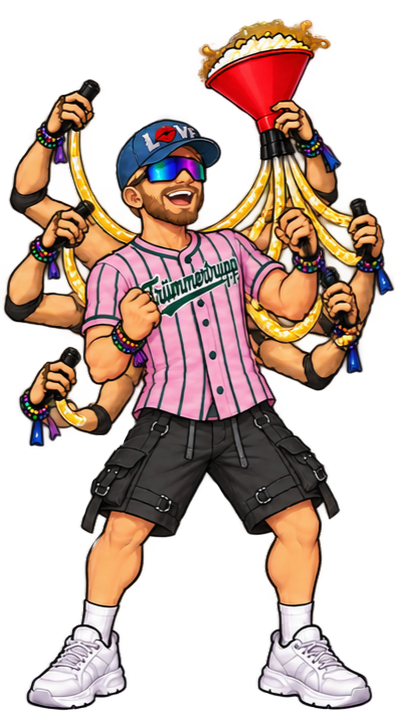
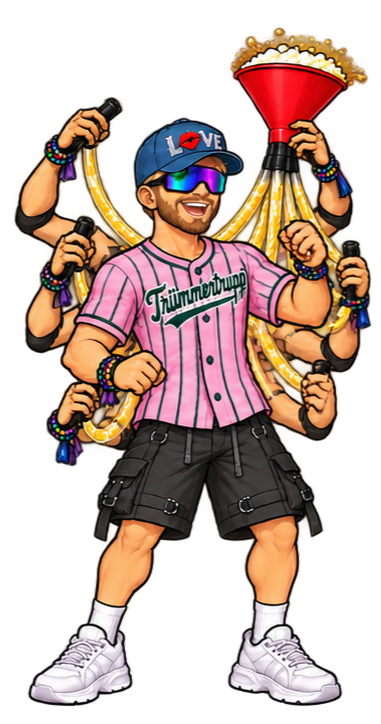
Animation Zecke/Ghost/Chef

diff --git a/src/config/characterSkins.js b/src/config/characterSkins.js
@@ -222,6 +222,31 @@ new URL(
 '../assets/characters/Ghost/skins/jersey/freude/ghost_jersey_freude4.png',
 import.meta.url,
 ).href;
+const ghostJerseySuccess05 =
+new URL(
+'../assets/characters/Ghost/skins/jersey/freude/ghost_jersey_freude5.png',
+import.meta.url,
+).href;
+const ghostJerseySuccess06 =
+new URL(
+'../assets/characters/Ghost/skins/jersey/freude/ghost_jersey_freude6.png',
+import.meta.url,
+).href;
+const ghostJerseySuccess07 =
+new URL(
+'../assets/characters/Ghost/skins/jersey/freude/ghost_jersey_freude7.png',
+import.meta.url,
+).href;
+const ghostJerseySuccess08 =
+new URL(
+'../assets/characters/Ghost/skins/jersey/freude/ghost_jersey_freude8.png',
+import.meta.url,
+).href;
+const ghostJerseySuccess09 =
+new URL(
+'../assets/characters/Ghost/skins/jersey/freude/ghost_jersey_freude9.png',
+import.meta.url,
+).href;
 
 
 const chefJerseyPortrait =
@@ -283,6 +308,11 @@ import.meta.url,
 const chefJerseySuccess05 =
 new URL(
 '../assets/characters/BoozeChef/skins/jersey/freude/chef_jersey_freude5.png',
+import.meta.url,
+).href;
+const chefJerseySuccess06 =
+new URL(
+'../assets/characters/BoozeChef/skins/jersey/freude/chef_jersey_freude6.png',
 import.meta.url,
 ).href;
 
@@ -482,6 +512,11 @@ import.meta.url,
 const zeckeJerseyFreude04 =
 new URL(
 '../assets/characters/Zecke/skins/jersey/freude/zecke_jersey_freude4.png',
+import.meta.url,
+).href;
+const zeckeJerseyFreude05 =
+new URL(
+'../assets/characters/Zecke/skins/jersey/freude/zecke_jersey_freude5.png',
 import.meta.url,
 ).href;
 const zeckeJerseyFreude06 =
@@ -742,14 +777,20 @@ export const CHARACTER_SKINS =
                   Object.freeze([
                     ghostJerseySuccess01,
                     ghostJerseySuccess02,
+                    ghostJerseySuccess02,
+                    ghostJerseySuccess02,
+                    ghostJerseySuccess02,
                     ghostJerseySuccess03,
                     ghostJerseySuccess04,
-                    ghostJerseySuccess04,
-                    ghostJerseyIdle01
+                    ghostJerseySuccess05,
+                    ghostJerseySuccess06,
+                    ghostJerseySuccess07,
+                    ghostJerseySuccess08,
+                    ghostJerseySuccess09,              
                   ]),
 
                 frameDurationMs:
-                  150,
+                  180,
             }
           }),
       }),
@@ -809,11 +850,15 @@ export const CHARACTER_SKINS =
                           chefJerseySuccess03,
                           chefJerseySuccess04,
                           chefJerseySuccess05,
-                          chefJerseyIdle01
+                          chefJerseySuccess06,
+                          chefJerseySuccess05,
+                          chefJerseySuccess06,
+                          chefJerseySuccess05,
+                          chefJerseySuccess06,
                         ]),
 
                       frameDurationMs:
-                        150,
+                        180,
                   }
                 }),
 
@@ -872,6 +917,11 @@ export const CHARACTER_SKINS =
                           zeckeJerseyFreude02,
                           zeckeJerseyFreude03,
                           zeckeJerseyFreude04,
+                          zeckeJerseyFreude05,
+                          zeckeJerseyFreude06,
+                          zeckeJerseyFreude05,
+                          zeckeJerseyFreude06,
+                          zeckeJerseyFreude05,
                           zeckeJerseyFreude06
                         ]),
 
